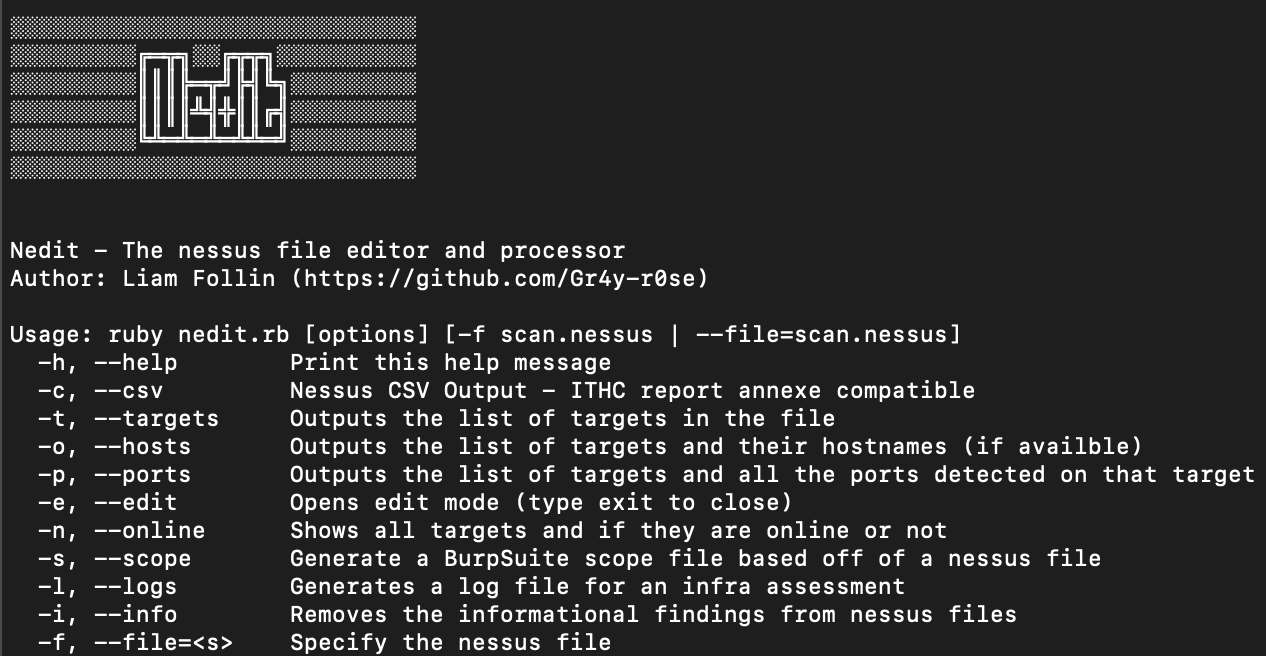
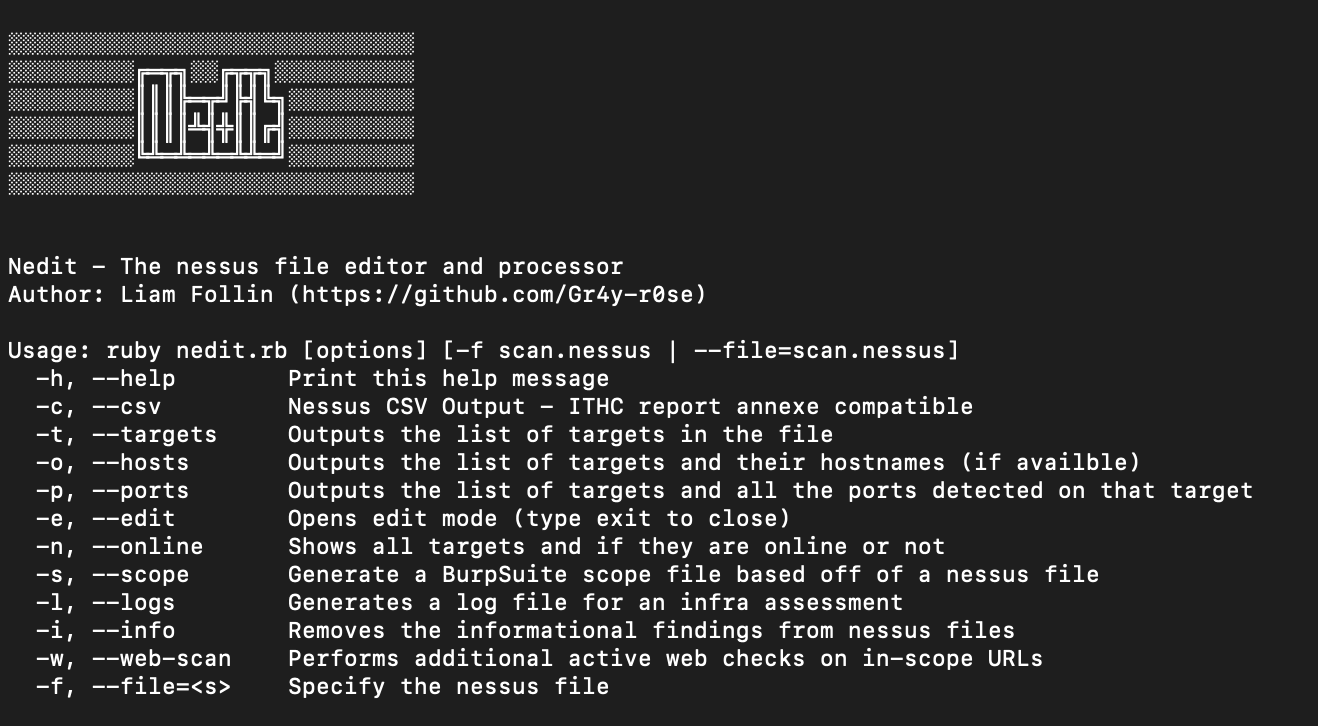
Added web_scan fucntionality
Additional web_scan functionality has been added, and fixes to the informational removing functionality.

Changed region(s): [[0.0, 0.3354, 0.9858, 1.0], [0.0, 0.0, 0.3389, 0.2744]]

diff --git a/nedit.rb b/nedit.rb
@@ -9,6 +9,7 @@ require_relative 'modules/info'
 require_relative 'modules/online'
 require_relative 'modules/scope'
 require_relative 'modules/logs'
+require_relative 'modules/scan'
 
 
 #Parse commands, and display banner
@@ -25,36 +26,37 @@ banner File.read('modules/banner.txt')
   opt :scope, "Generate a BurpSuite scope file based off of a nessus file"
   opt :logs, "Generates a log file for an infra assessment", :default => false
   opt :info, "Removes the informational findings from nessus files", :default => false 
-  opt :file, "Specify the nessus file", :type => String
+  opt :web_scan, "Performs additional active web checks on in-scope URLs", :default => false
+  opt :file, "Specify the nessus file\n\n ", :type => String
 end
 
 # Ensure mandatory parameters are present and Collisions don't happen 
 Optimist::die :file, "- that file doesn't exist :).".red if !opts[:file] or File.file?(opts[:file]) == false
 
+filename_ = File.expand_path(opts[:file])
+
 if opts[:info] then 
-  info(opts[:file]) 
-  puts "\n\n====Info Removal====\nNessus file has been updated and is here: #{opts[:file]}"
+  info(filename_) 
+  puts "\n\n====Info Removal====\nNessus file has been updated and is here: #{filename_}"
 end
 
 if opts[:online] then 
-  you_up = online(opts[:file]) 
+  you_up = online(filename_) 
   puts "\n\n====Online====\n\n"
   you_up.each do |i|
     puts i
   end
 end
 
-
-
-if opts[:edit] then edit_mode(opts[:file]) end
+if opts[:edit] then edit_mode(filename_) end
 
 if opts[:csv] then 
-  filename = csv(opts[:file]) 
+  filename = csv(filename_) 
   puts "\n\n====CSV Output====\nCSV file has been created and is here: #{filename}"
 end
 
 if opts[:logs] then 
-  filename = logs(opts[:file]) 
+  filename = logs(filename_) 
   puts "\n\n====Logs Output====\nLog file has been created and is here: #{filename}"
 end
 
@@ -62,7 +64,7 @@ end
 ####Deals with the target printing
 
 if opts[:targets] then 
-  targets_ = targets(opts[:file]) 
+  targets_ = targets(filename_) 
   puts "\n\n====Targets====\n\n"
   targets_.each do |i| 
     puts i
@@ -74,7 +76,7 @@ end
 ####Deals with the hostname printing
 
 if opts[:hosts] then 
-  hosts = hostnames(opts[:file]) 
+  hosts = hostnames(filename_) 
   puts "\n\n====Hostnames====\n\n"
   hosts.each do |i| 
     puts i 
@@ -86,7 +88,7 @@ end
 ####Deals with the port printing
 
 if opts[:ports] then 
-  open_ports = ports(opts[:file]) 
+  open_ports = ports(filename_) 
   puts "\n\n====Ports====\n\n"
   open_ports.each do |key, values| 
     puts %Q(For host #{key} the following ports were discovered:\n    #{values.join("\n    ")}\n\n)
@@ -96,21 +98,16 @@ else
 end
 
 if opts[:scope] then
-  filename = scope(opts[:file]) 
+  filename = scope(filename_) 
   puts "\n\n====BurpSuite Scope====\nScope file has been created and is here: #{filename}"
 end
 
+if opts[:web_scan] then
+  total_scanned = web_scan(filename_) 
+  puts "\n\n====Web Scans====\nScanning has been completed on #{total_scanned} targets. Output can be found here: #{filename_}"
+end
 
 puts "\n\nProgram completed. Files will be saved in the same directory as the nessus file :). \n\n".green
-
-
-
-
-
-
-
-
-
 
 
 

diff --git a/modules/scan.rb b/modules/scan.rb
@@ -1,0 +1,45 @@
+require "faraday"
+
+require_relative "targets"
+require_relative "ports"
+
+
+def web_scan(file_)
+	#Leverage Other Modules for Processing
+	targets = targets(file_)
+	open_ports = ports(file_)
+	filepath = file_.rpartition('/')[0]
+	target_fqdns = []
+	targets.each do |i|
+ 		if not i.match(/^([01]?\d\d?|2[0-4]\d|25[0-5])(?:\.(?:[01]?\d\d?|2[0-4]\d|25[0-5])){3}(?:\/[0-2]\d|\/3[0-2])?$/) then
+ 			target_fqdns.append(i)
+ 		end
+ 	end
+	target_fqdns = target_fqdns.sort
+ 	target_fqdns.each do |i|
+
+ 		system %Q(findomain -t #{i} -s "#{filepath}/#{i}")
+ 		if not File.directory?(%Q("#{filepath}/#{i}")) then 
+ 			system %Q(mkdir "#{filepath}/#{i}")
+ 		end
+ 		begin #catch http request errors
+	 		req = Faraday.new "https://#{i}/robots.txt"
+	 		resp = req.get
+	 		if resp.status == 200 then 
+	 			robots_file = resp.body 
+	 		else 
+	 			robots_file = "    Robots file was not found" 
+	 		end
+	 		headers = resp.headers
+	 	rescue
+	 		robots_file = "The request failed."
+	 		headers = {"The request"=>"failed"}
+	 	end
+ 		robots = %Q(robots.txt contained the following entrys:\n    #{robots_file}\n\n)
+ 		ports = %Q(The following open ports were discovered:\n    #{open_ports[i].join("\n    ")}\n\n)
+ 		headers = %Q(The following headers were discovered:\n#{(headers.map { |k,v| "     #{k}: #{v}" }).join("\n")}\n\n)
+ 		to_write = [robots,ports,headers]
+ 		File.write("#{filepath}/#{i}/details.txt",to_write.join("\n"))
+ 	end
+ 	return target_fqdns.length
+end

diff --git a/modules/info.rb b/modules/info.rb
@@ -5,8 +5,11 @@ def info(file_)
 	file = File.open(file_) 
 
 	doc = Nokogiri::XML(file)
+	lst = doc.xpath('//ReportItem')
+	to_remove = []
+	
 	file.close
-	for i in lst do vulns.push(i['pluginName']) if i['severity'] ==  '0' end
+	for i in lst do to_remove.push(i['pluginName']) if i['severity'] ==  '0' end
 
 	to_remove.each do |vuln|
 		path_ = '//ReportItem[@pluginName="'+vuln+'"]'
